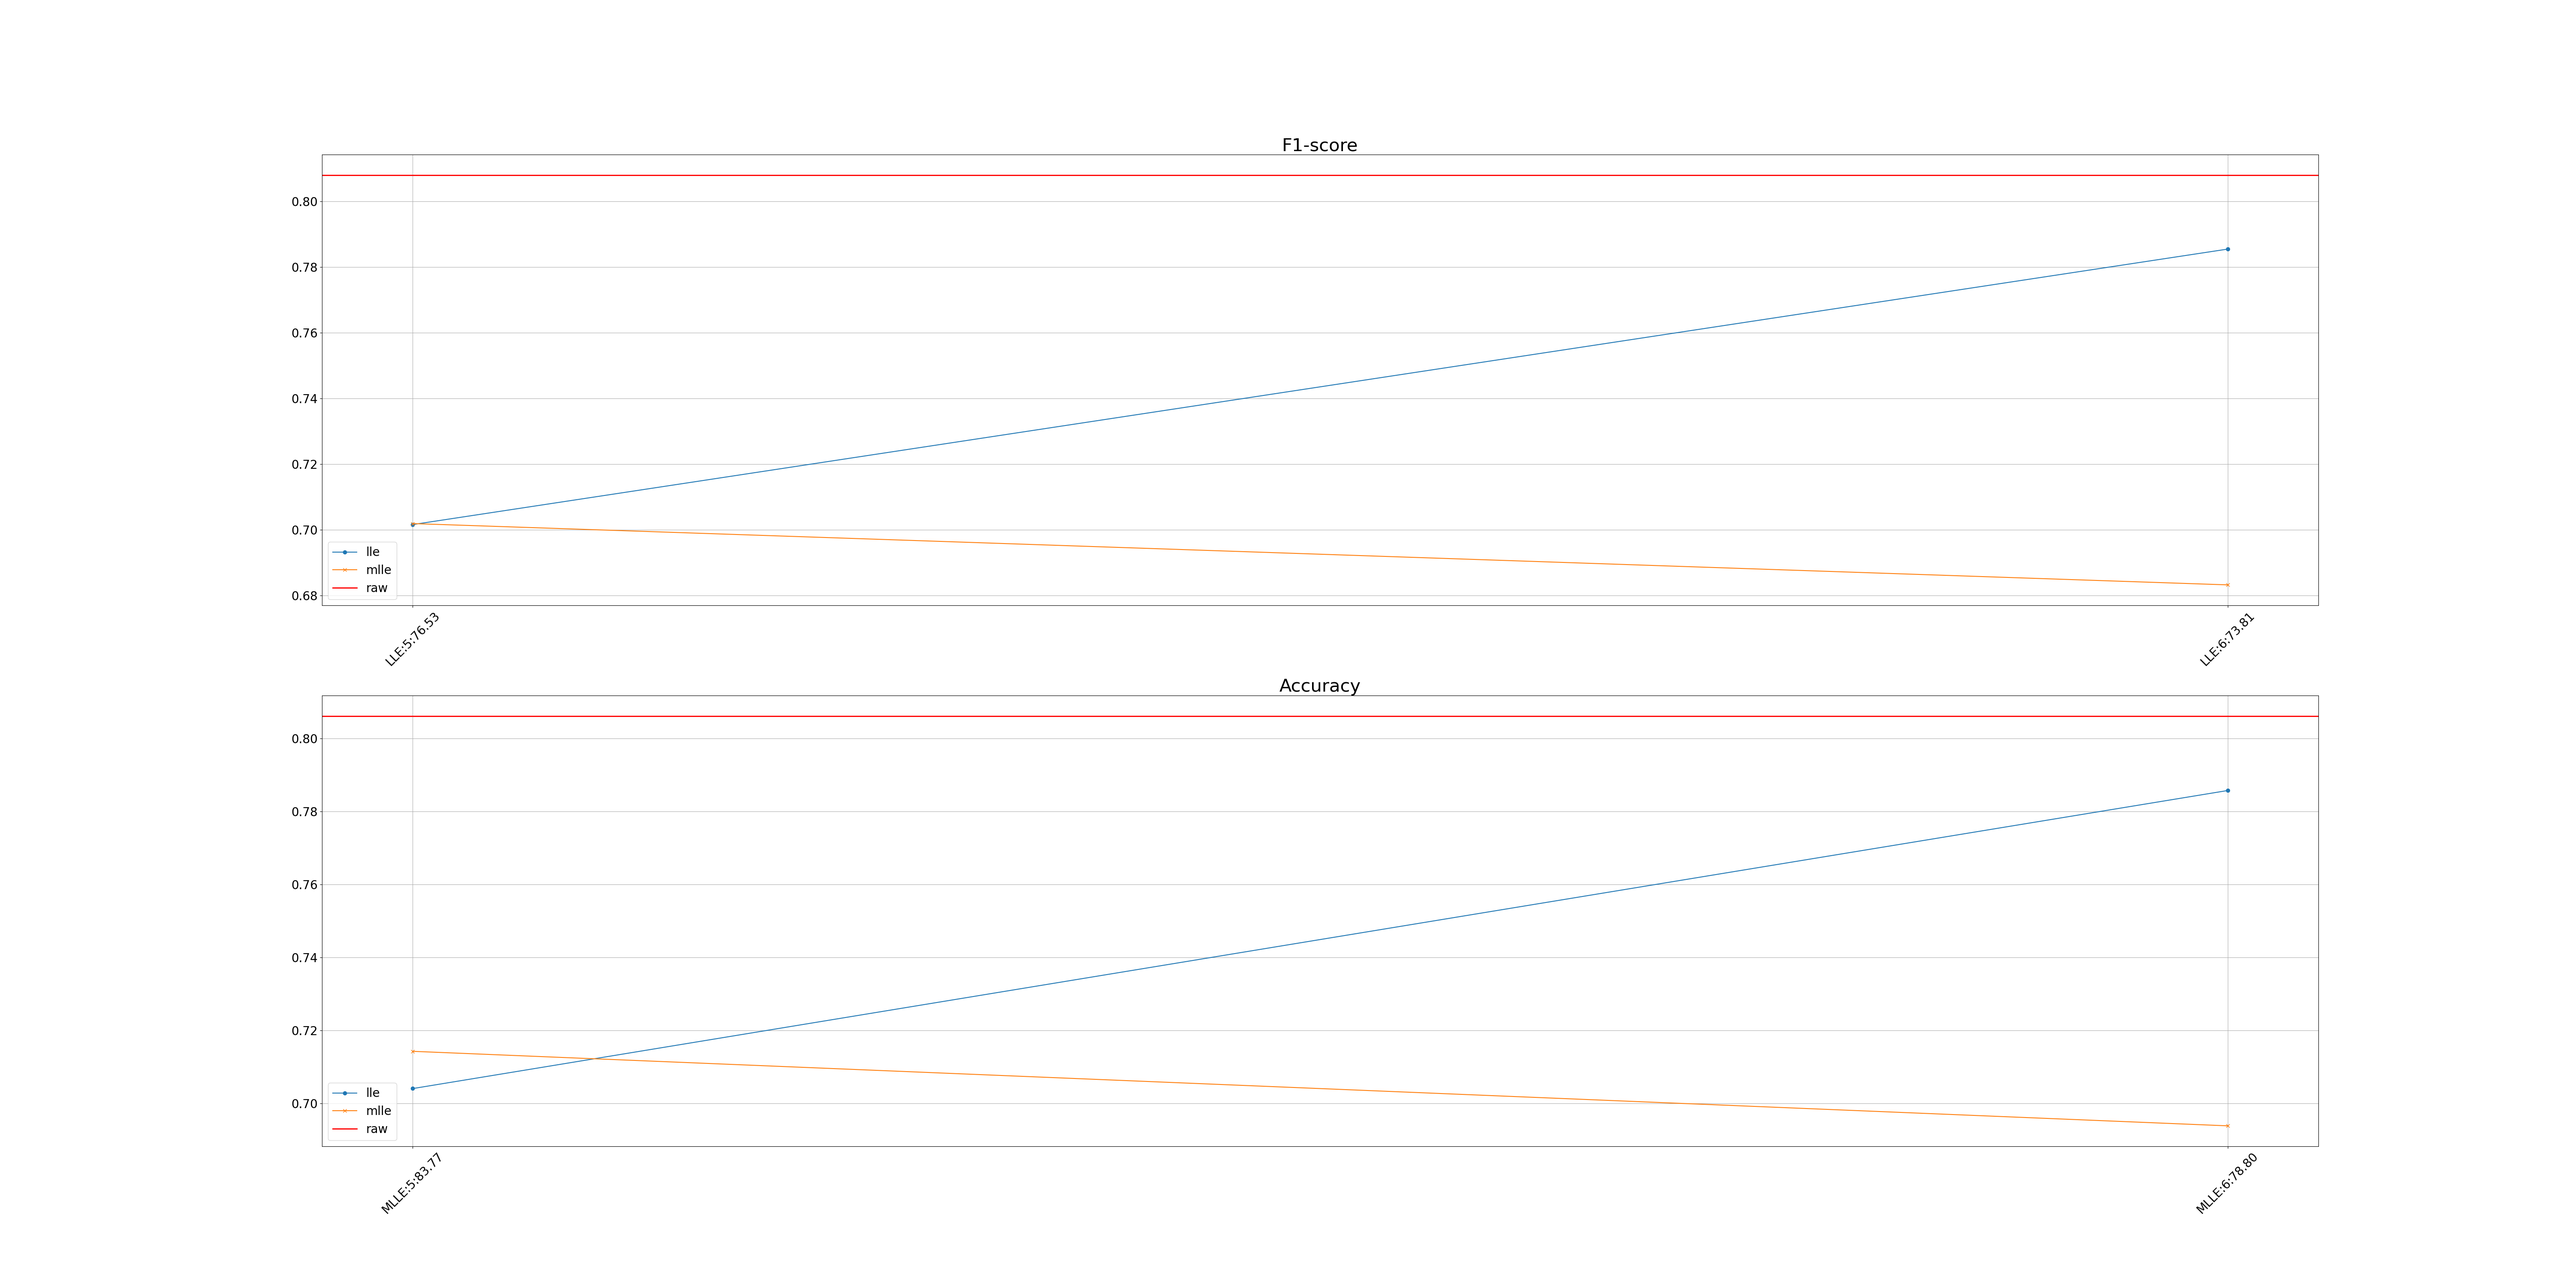
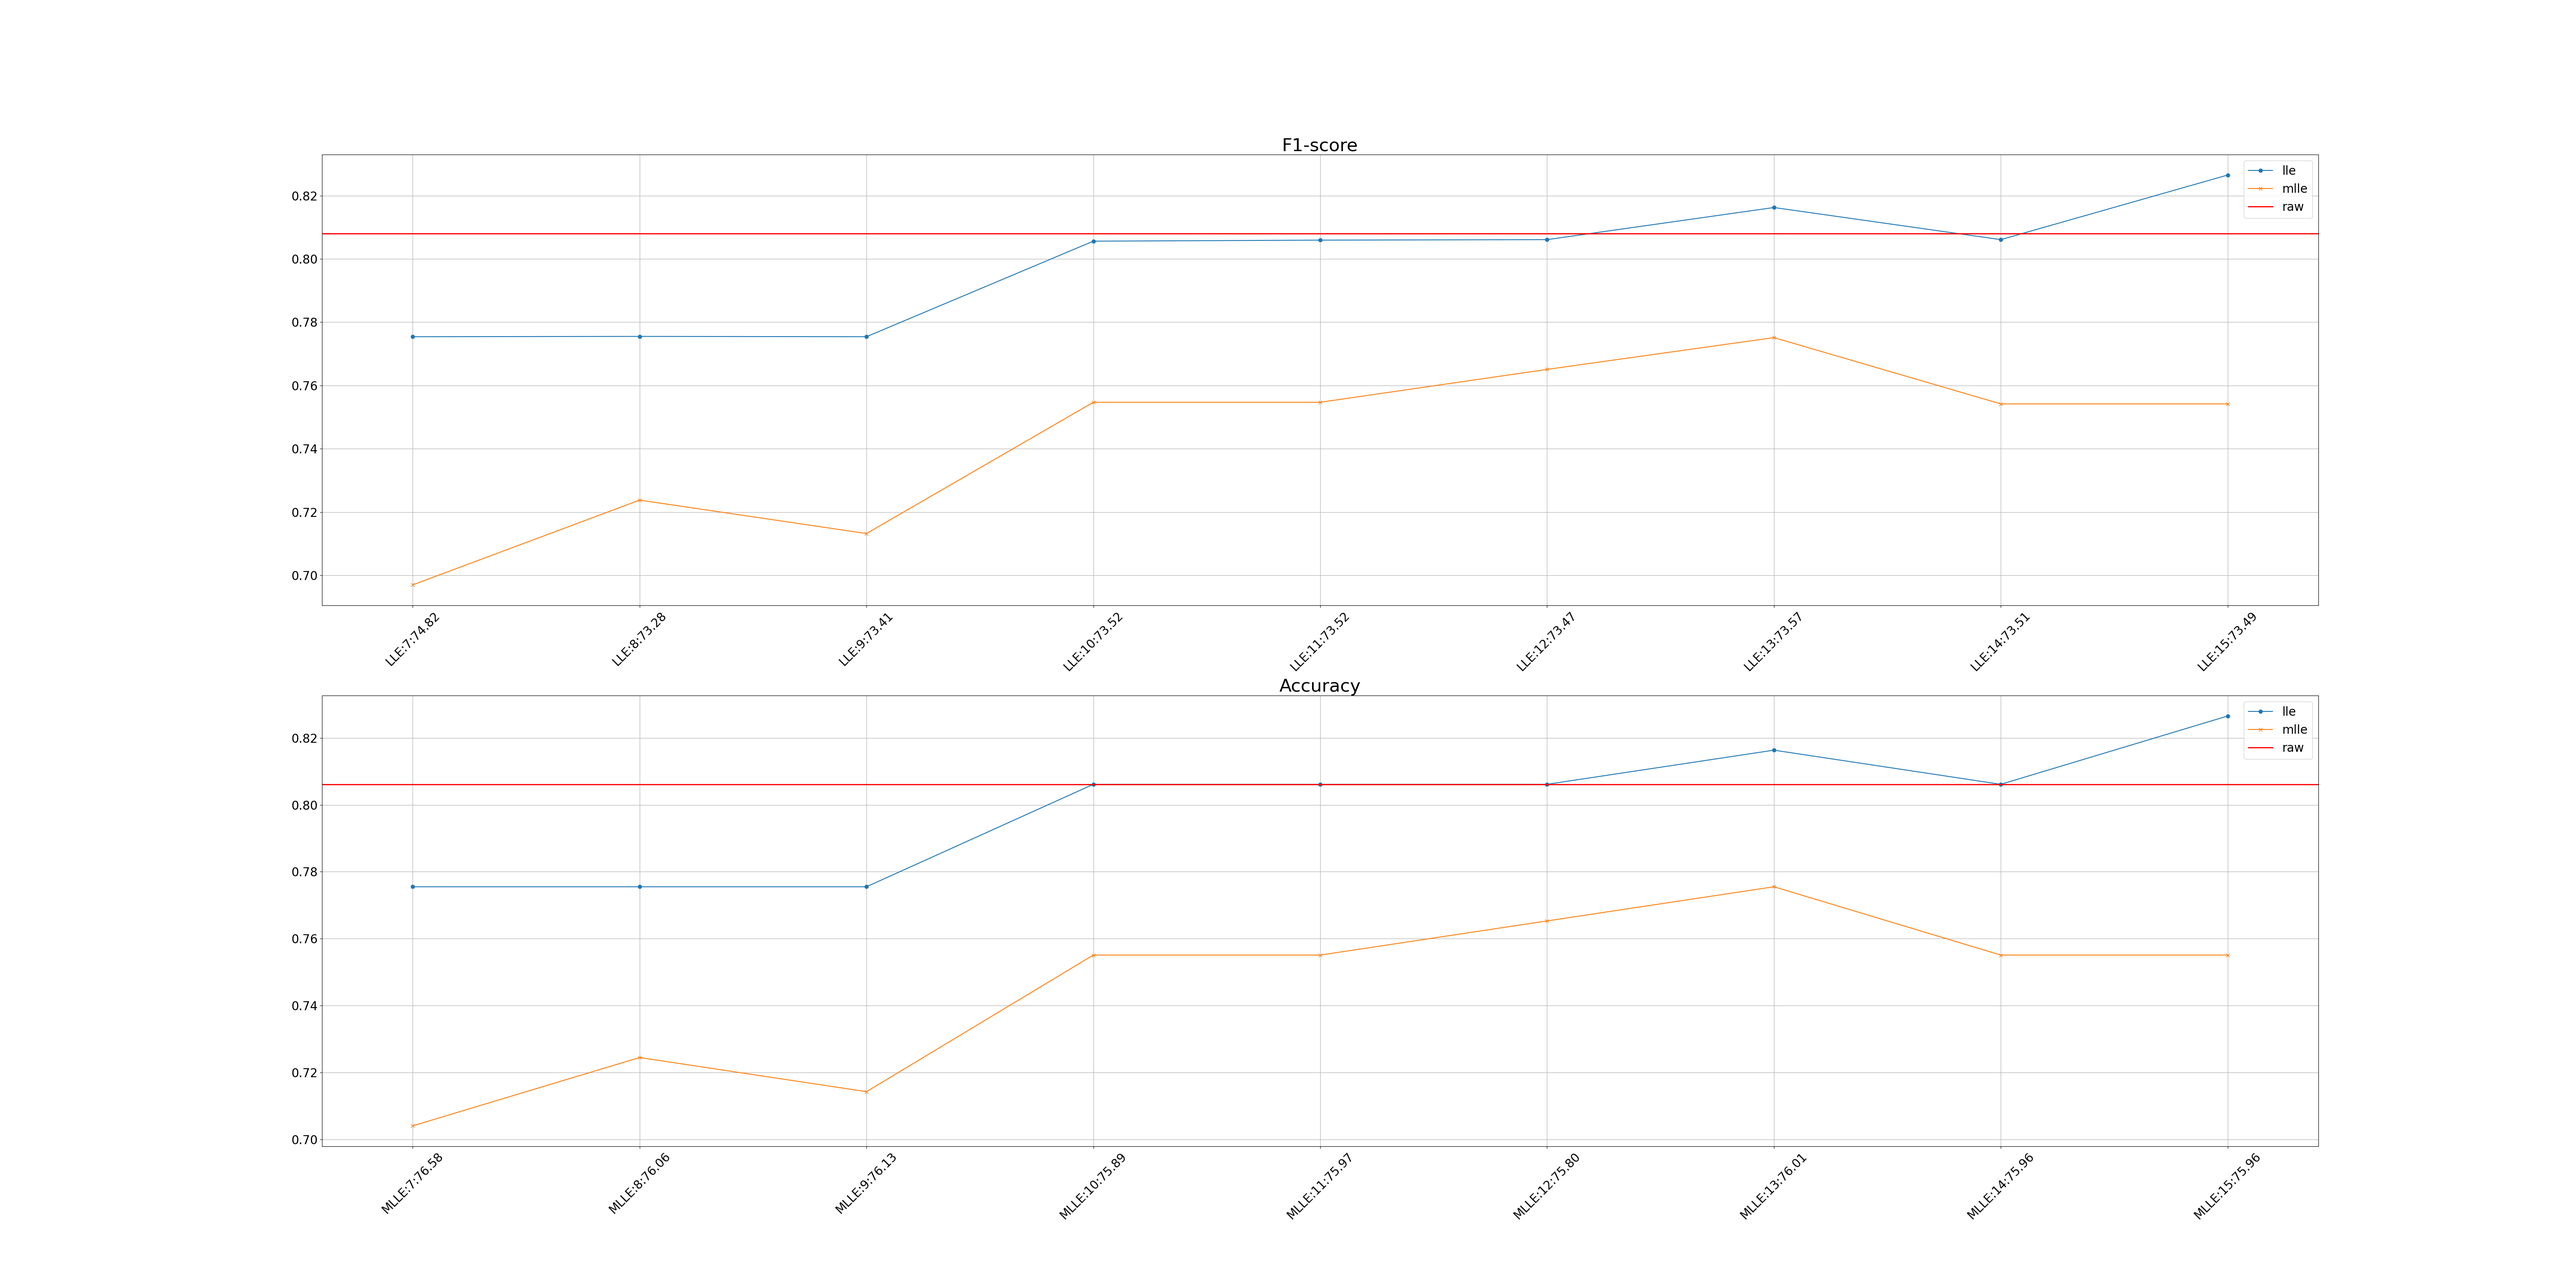
added the plots for 18 neigbors and #components from 7 to 15

Changed region(s): [[0.8727, 0.124, 0.9038, 0.155], [0.2182, 0.806, 0.2493, 0.837]]

diff --git a/run3.py b/run3.py
@@ -77,7 +77,7 @@ print(f'Train Split: #patients = {nb_patients_spl}, #survived = {nb_survived_spl
 
 
 # --- dimensionality reduction --- #
-nb = np.arange(7, 13, 1)
+nb = np.arange(7, 16, 1)
 # nb = np.arange(15, 25, 1)
 methods = OrderedDict()
 elapsed_dr_lle = OrderedDict()
